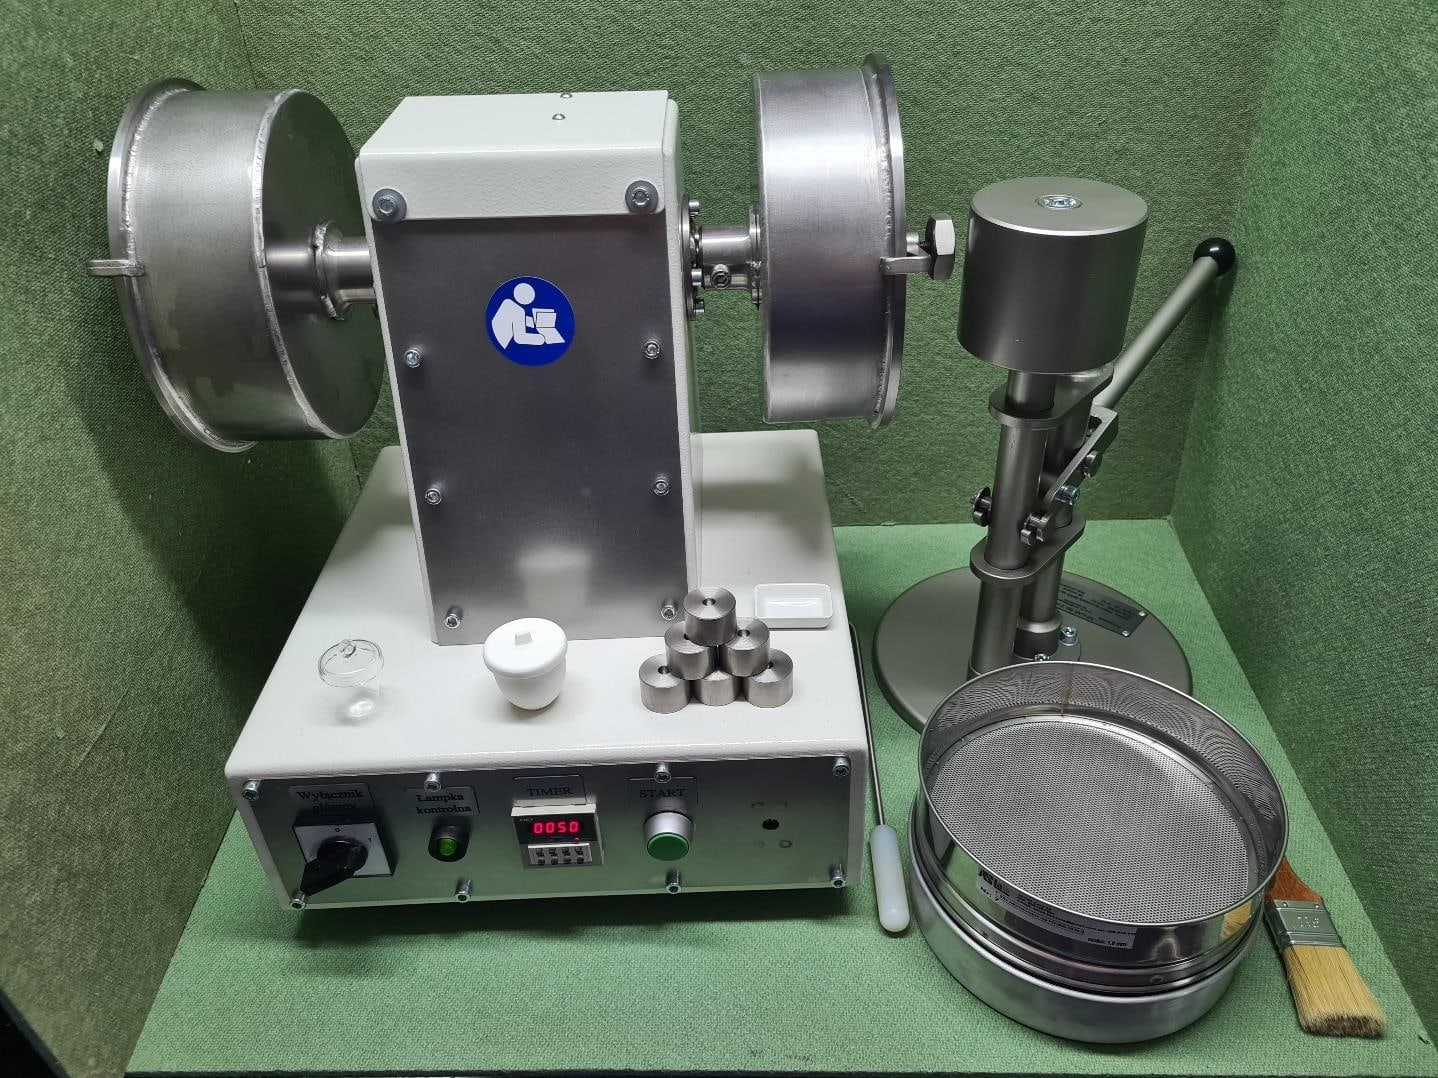
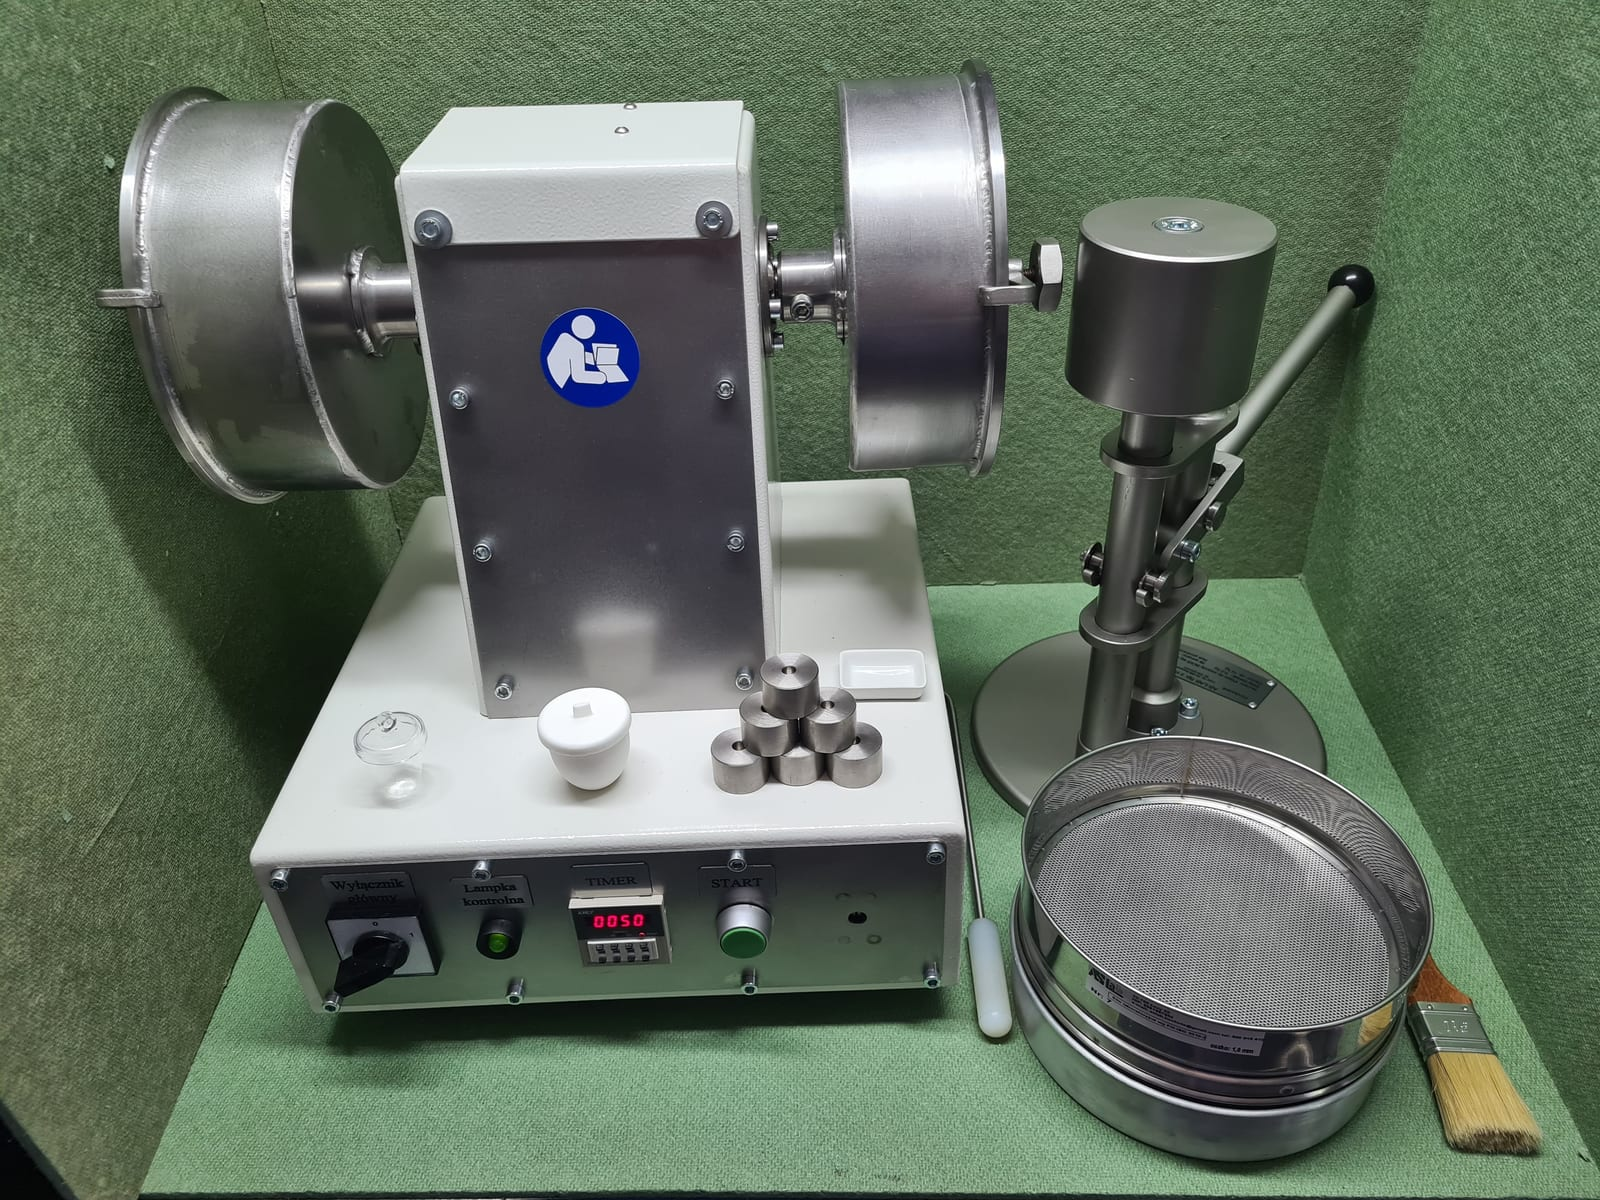
Zdjecia od klienta: sito fi 200 + ROGI w oryginalnej jakosci
- sita analityczne fi 200: wlasciwe zdjecie (zamiast placeholdera)
- mlynek ROGI: podmiana na oryginal 4032x3024 (lepsza jakosc niz wersja z PDF)
- sita fi 300 nadal placeholder - czekamy na zdjecie od klientki

diff --git a/src/content/machines/sita-analityczne-200mm.md b/src/content/machines/sita-analityczne-200mm.md
@@ -26,6 +26,8 @@ specs:
     value: "20 µm - 31,5 mm"
   - label: "Liczba rozmiarów"
     value: "78 standardowych"
+image: "sita-analityczne-200mm.jpg"
+imageAlt: "Sito analityczne fi 200 mm w obręczy nierdzewnej - pokład perforowany - AS‑LAB"
 gallery: []
 applications:
   - "Analizy granulometryczne"
